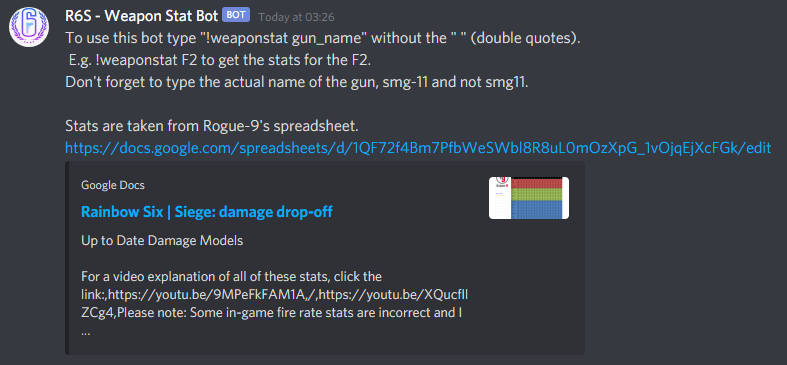
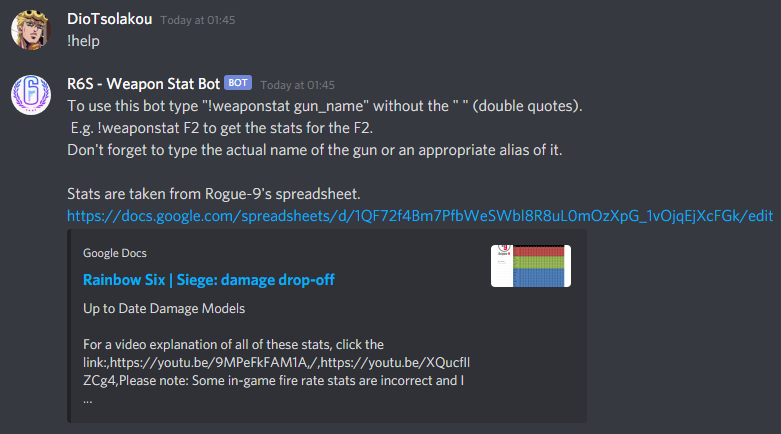
Minor fix.

Changed region(s): [[0.0, 0.0, 1.0, 0.663], [0.0922, 0.6329, 0.6146, 0.9342], [0.0922, 0.5425, 0.4302, 0.6027]]

diff --git a/weaponstat.py b/weaponstat.py
@@ -196,7 +196,7 @@ async def on_message(message):
     if message.content == '!help':
         await message.channel.send('To use this bot type "!weaponstat gun_name" without the " " (double quotes).\n '
                                    'E.g. !weaponstat F2 to get the stats for the F2.\n'
-                                   'Don\'t forget to type the actual name of the gun, smg-11 and not smg11.\n \n'
+                                   'Don\'t forget to type the actual name of the gun or an appropriate alias of it.\n \n'
                                    'Stats are taken from Rogue-9\'s spreadsheet. https://docs.google.com/spreadsheets/d/1QF72f4Bm7PfbWeSWbl8R8uL0mOzXpG_1vOjqEjXcFGk/edit')
 
     if message.content.startswith('!alias'):
